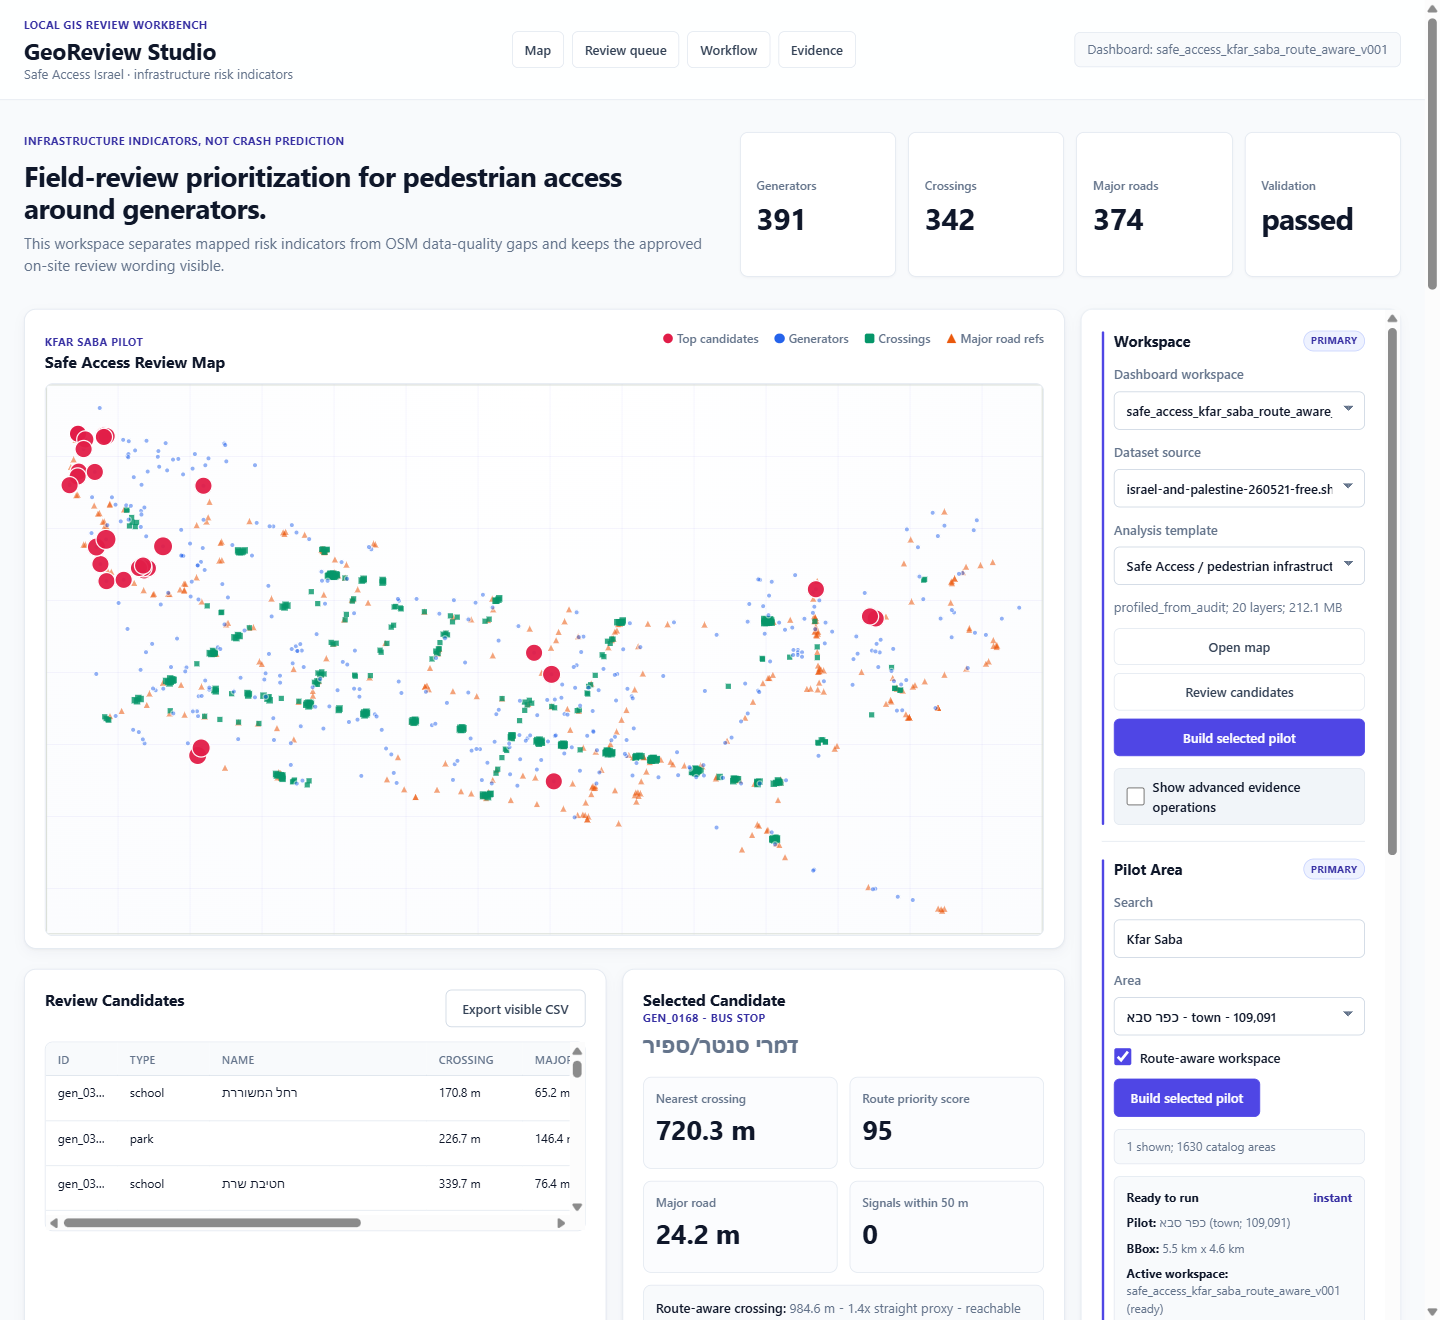
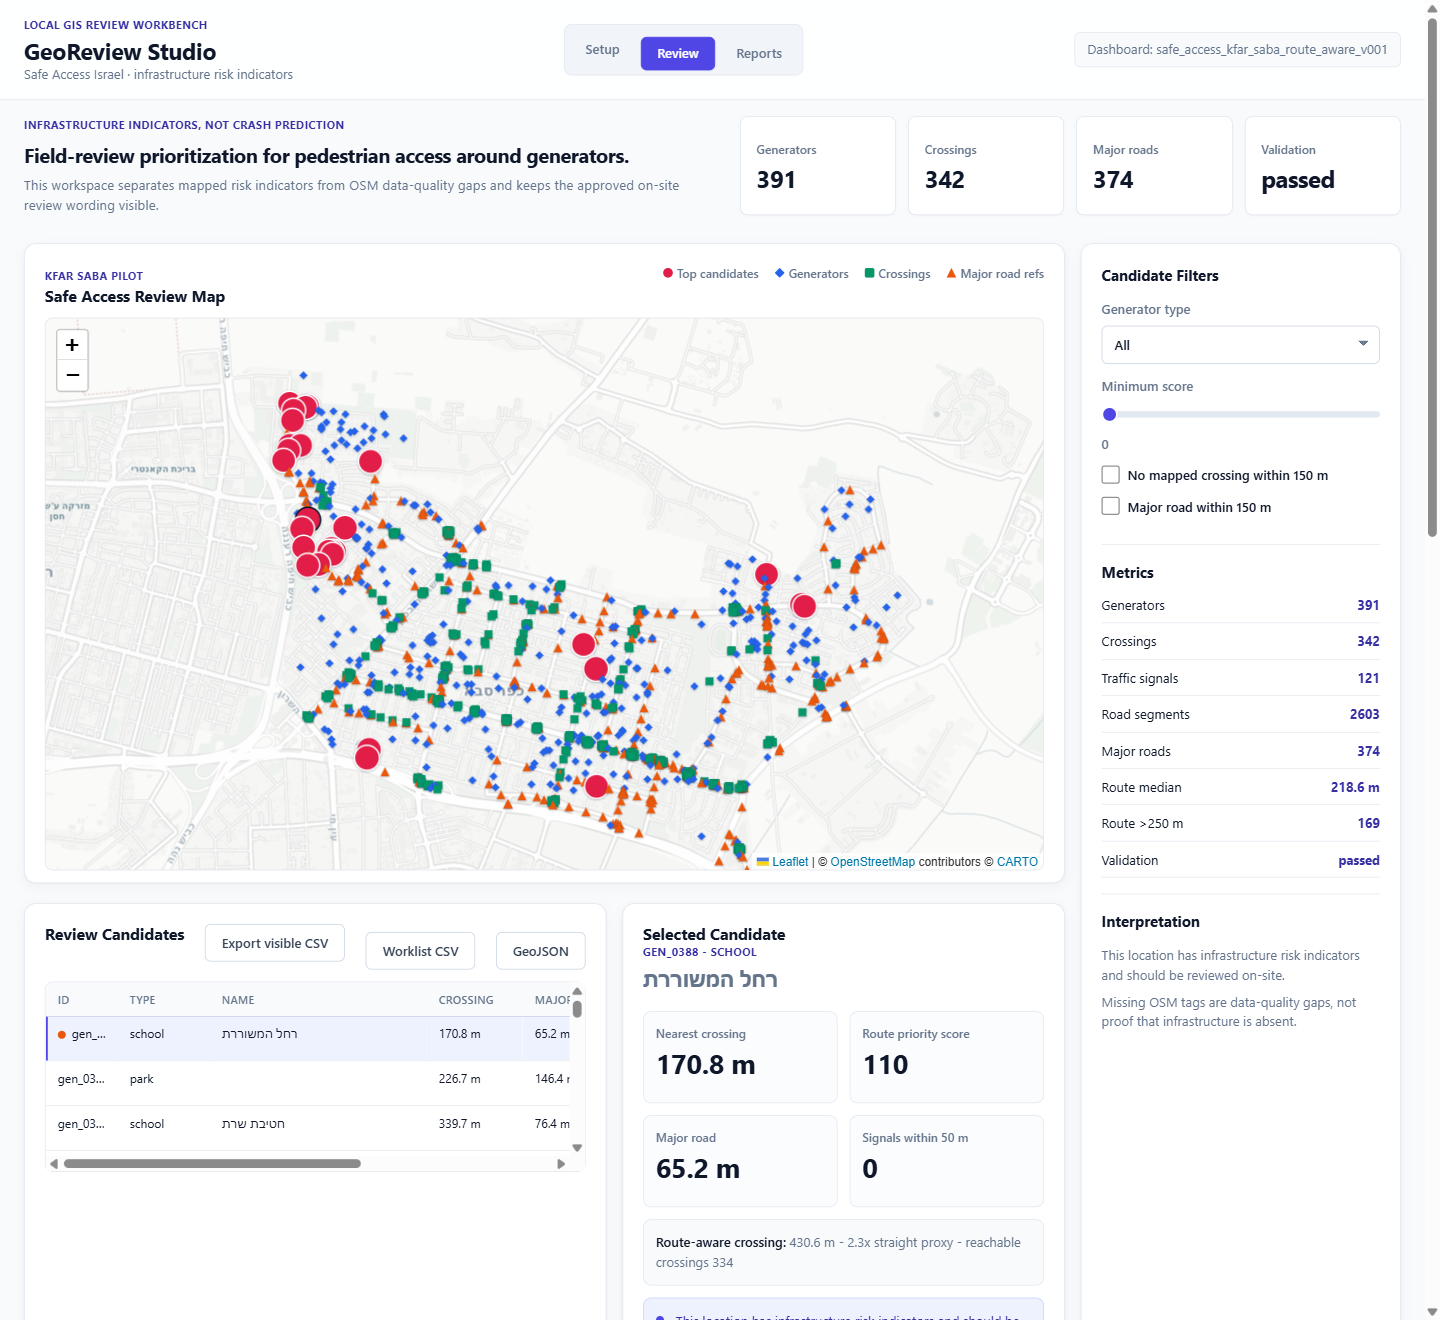
Surface the worklist export in the product UI + refresh screenshot
Add "Worklist CSV" and "GeoJSON" buttons to the Review Candidates header that hit
the server export endpoint (/api/dashboard-workspaces/{id}/candidates-export) — the
richer worklist (ranked shortlist + reviewer decisions joined, approved wording
stamped) versus the existing client-side "Export visible CSV". Listeners are guarded
(?.addEventListener) so a missing node can't abort module init; the download() uses a
transient anchor against the attachment-served URL (no navigation). Makes the
"tool vs script" export a visible, one-click product feature rather than an API-only one.

Refresh screenshots/dashboard_desktop.png to the current product view (shows the
cleaned dashboard + the new export buttons).

Verified in a product-mode browser+console pass (playwright): both buttons render and
the CSV button triggers a real download (georeview_worklist_<workspace>.csv), nav +
map (9 CARTO tiles) + 230-row review queue all work, 0 console errors. Backend
unchanged; forbidden-terms + validate_app still green.

diff --git a/frontend/static/app.js b/frontend/static/app.js
@@ -440,6 +440,8 @@ const els = {
   rows: document.getElementById("candidateRows"),
   detail: document.getElementById("candidateDetail"),
   exportCsv: document.getElementById("exportCsv"),
+  downloadWorklistCsv: document.getElementById("downloadWorklistCsv"),
+  downloadWorklistGeojson: document.getElementById("downloadWorklistGeojson"),
   tabSetup: document.getElementById("tabSetup"),
   tabReview: document.getElementById("tabReview"),
   tabReports: document.getElementById("tabReports"),
@@ -494,6 +496,19 @@ function flagPills(flags) {
 
 function dashboardBase() {
   return `/api/dashboard-workspaces/${encodeURIComponent(state.activeWorkspaceId)}`;
+}
+
+// Server-side review-worklist export (ranked shortlist + reviewer decisions, approved
+// wording stamped). The endpoint sends Content-Disposition: attachment, so a plain
+// anchor click downloads without navigating away.
+function downloadWorklist(format) {
+  if (!state.activeWorkspaceId) return;
+  const anchor = document.createElement("a");
+  anchor.href = `${dashboardBase()}/candidates-export?format=${format}`;
+  anchor.rel = "noopener";
+  document.body.appendChild(anchor);
+  anchor.click();
+  anchor.remove();
 }
 
 function bounds(points) {
@@ -5711,6 +5726,8 @@ els.buildWorkspace.addEventListener("click", buildWorkspace);
 els.buildGenericWorkspace.addEventListener("click", buildGenericWorkspace);
 els.buildRouteAwareWorkspace.addEventListener("click", buildRouteAwareWorkspace);
 els.exportCsv.addEventListener("click", exportVisibleCsv);
+els.downloadWorklistCsv?.addEventListener("click", () => downloadWorklist("csv"));
+els.downloadWorklistGeojson?.addEventListener("click", () => downloadWorklist("geojson"));
 window.addEventListener("resize", renderMap);
 
 init();

diff --git a/frontend/static/index.html b/frontend/static/index.html
@@ -669,6 +669,8 @@
         <div class="table-header">
           <h2>Review Candidates</h2>
           <button id="exportCsv" type="button">Export visible CSV</button>
+          <button id="downloadWorklistCsv" type="button" title="Ranked shortlist + reviewer decisions, for a field crew (CSV)">Worklist CSV</button>
+          <button id="downloadWorklistGeojson" type="button" title="Ranked shortlist + reviewer decisions, for QGIS / any GIS (GeoJSON)">GeoJSON</button>
         </div>
         <div class="table-wrap">
           <table>